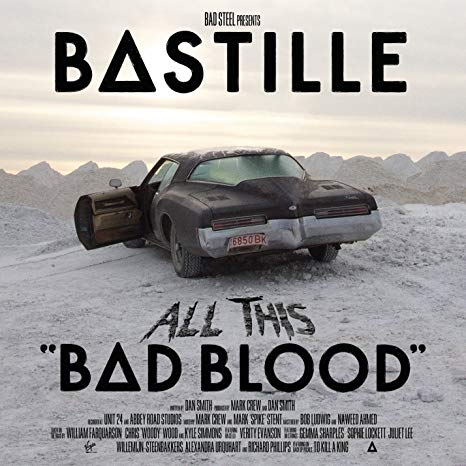
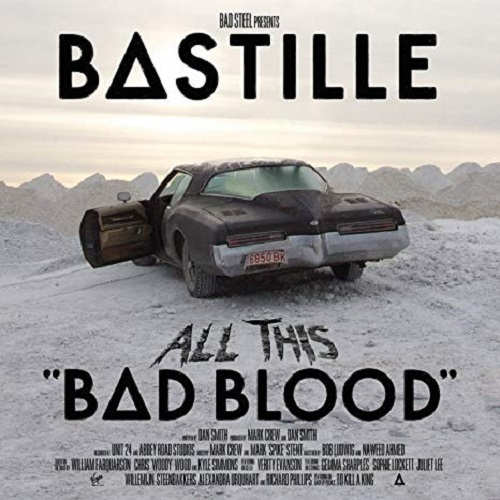
--modifiche immagini album e artisti-- --inserimento linea verde quando siamo su una determita sezione--

diff --git a/index.html b/index.html
@@ -86,6 +86,7 @@
                <li><a href="#">NUOVE USCITE</a></li>
                <li><a href="#">SCOPRI</a></li>
              </ul>
+
           <nav class="menu_a_tendina">
             <a href="#">
               <img src="img/menu-button.png" alt="">
@@ -98,13 +99,13 @@
          </div>
          <div class="conten">
            <div class="music_copertina">
-             <img class="circle"src="img/luciodalla.jpg" alt="">
-             <img src="img/luciodalla.jpg" alt="">
-             <img class="circle" src="img/luciodalla.jpg" alt="">
-              <img src="img/luciodalla.jpg" alt="">
-               <img class="circle"src="img/luciodalla.jpg" alt="">
-                <img src="img/luciodalla.jpg" alt="">
-                <img class="circle"src="img/luciodalla.jpg" alt="">
+             <img class="circle"src="img/bastille.jpg" alt="">
+             <img src="img/discobastille.jpg" alt="">
+             <img class="circle" src="img/bastille.jpg" alt="">
+             <img src="img/discobastille.jpg" alt="">
+             <img class="circle" src="img/bastille.jpg" alt="">
+             <img src="img/discobastille.jpg" alt="">
+             <img class="circle" src="img/bastille.jpg" alt="">
            </div>
          </div>
          <div class="titolo_categoria">
@@ -112,13 +113,13 @@
          </div>
          <div class="conten">
            <div class="music_copertina">
-             <img class="circle"src="img/luciodalla.jpg" alt="">
-             <img src="img/luciodalla.jpg" alt="">
-             <img class="circle" src="img/luciodalla.jpg" alt="">
-              <img src="img/luciodalla.jpg" alt="">
-               <img class="circle"src="img/luciodalla.jpg" alt="">
-                <img src="img/luciodalla.jpg" alt="">
-                <img class="circle"src="img/luciodalla.jpg" alt="">
+             <img class="circle"src="img/bastille.jpg" alt="">
+             <img src="img/discobastille.jpg" alt="">
+             <img class="circle" src="img/bastille.jpg" alt="">
+             <img src="img/discobastille.jpg" alt="">
+             <img class="circle" src="img/bastille.jpg" alt="">
+             <img src="img/discobastille.jpg" alt="">
+             <img class="circle" src="img/bastille.jpg" alt="">
            </div>
          </div>
          <div class="titolo_categoria">
@@ -126,13 +127,13 @@
          </div>
          <div class="conten">
            <div class="music_copertina">
-             <img class="circle"src="img/luciodalla.jpg" alt="">
-             <img src="img/luciodalla.jpg" alt="">
-             <img class="circle" src="img/luciodalla.jpg" alt="">
-              <img src="img/luciodalla.jpg" alt="">
-               <img class="circle"src="img/luciodalla.jpg" alt="">
-                <img src="img/luciodalla.jpg" alt="">
-                <img class="circle"src="img/luciodalla.jpg" alt="">
+             <img class="circle"src="img/bastille.jpg" alt="">
+             <img src="img/discobastille.jpg" alt="">
+             <img class="circle" src="img/bastille.jpg" alt="">
+             <img src="img/discobastille.jpg" alt="">
+             <img class="circle" src="img/bastille.jpg" alt="">
+             <img src="img/discobastille.jpg" alt="">
+             <img class="circle" src="img/bastille.jpg" alt="">
            </div>
          </div>
          <div class="titolo_categoria">
@@ -140,13 +141,13 @@
          </div>
          <div class="conten">
            <div class="music_copertina">
-             <img class="circle"src="img/luciodalla.jpg" alt="">
-             <img src="img/luciodalla.jpg" alt="">
-             <img class="circle" src="img/luciodalla.jpg" alt="">
-              <img src="img/luciodalla.jpg" alt="">
-               <img class="circle" src="img/luciodalla.jpg" alt="">
-                <img src="img/luciodalla.jpg" alt="">
-                <img class="circle" src="img/luciodalla.jpg" alt="">
+             <img class="circle"src="img/bastille.jpg" alt="">
+             <img src="img/discobastille.jpg" alt="">
+             <img class="circle" src="img/bastille.jpg" alt="">
+             <img src="img/discobastille.jpg" alt="">
+             <img class="circle" src="img/bastille.jpg" alt="">
+             <img src="img/discobastille.jpg" alt="">
+             <img class="circle" src="img/bastille.jpg" alt="">
            </div>
          </div>
       </div>
@@ -173,7 +174,7 @@
             <a href="#">
               <img src="img/skip-track1.png" alt="">
             </a>
-            <a href="#">
+            <a href="audio/song.mp3">
               <img src="img/play-button.png" alt="">
             </a>
             <a href="#">

diff --git a/master.css b/master.css
@@ -6,7 +6,6 @@
 .section_top{
   height:calc(100% - 100px);
   max-width: 100%;
-
 }
 .section_bottom{
   width: 100%;
@@ -17,7 +16,6 @@
   width:200px;
   height:100%;
   background-color:rgba(0, 0, 0, 0.9);
-
 }
 .contents{
   width:calc(100% - 200px);
@@ -58,28 +56,24 @@ a:hover{
   margin-top:15px;
   margin-bottom:15px;
 }
+.header_menu .items_header_menu a:active{
+  border-bottom:solid 5px green;
+}
 .border{
   border:solid 1px white;
   width:90%;
 }
-
 .icon,.user{
   margin-left:10px;
   line-height:40px;
 }
+
 .recently p{
   color:white;
   font-size:12px;
 }
 /*setting header*/
-.mod{
-  background-color:rgb(26, 188, 148);
-  border-radius:5px  ;
-  border-color:rgb(26, 188, 148) ;
-  line-height:30px;
-  width:40px;
 
-}
 .menu_a_tendina{
   display: none;
 }
@@ -158,9 +152,7 @@ a:hover{
   flex-direction: column;
   justify-content: center;
 }
-.hearts a:hover img{
-  opacity:0.6;
-}
+
 .player{
   display: flex;
   flex-direction: column;
